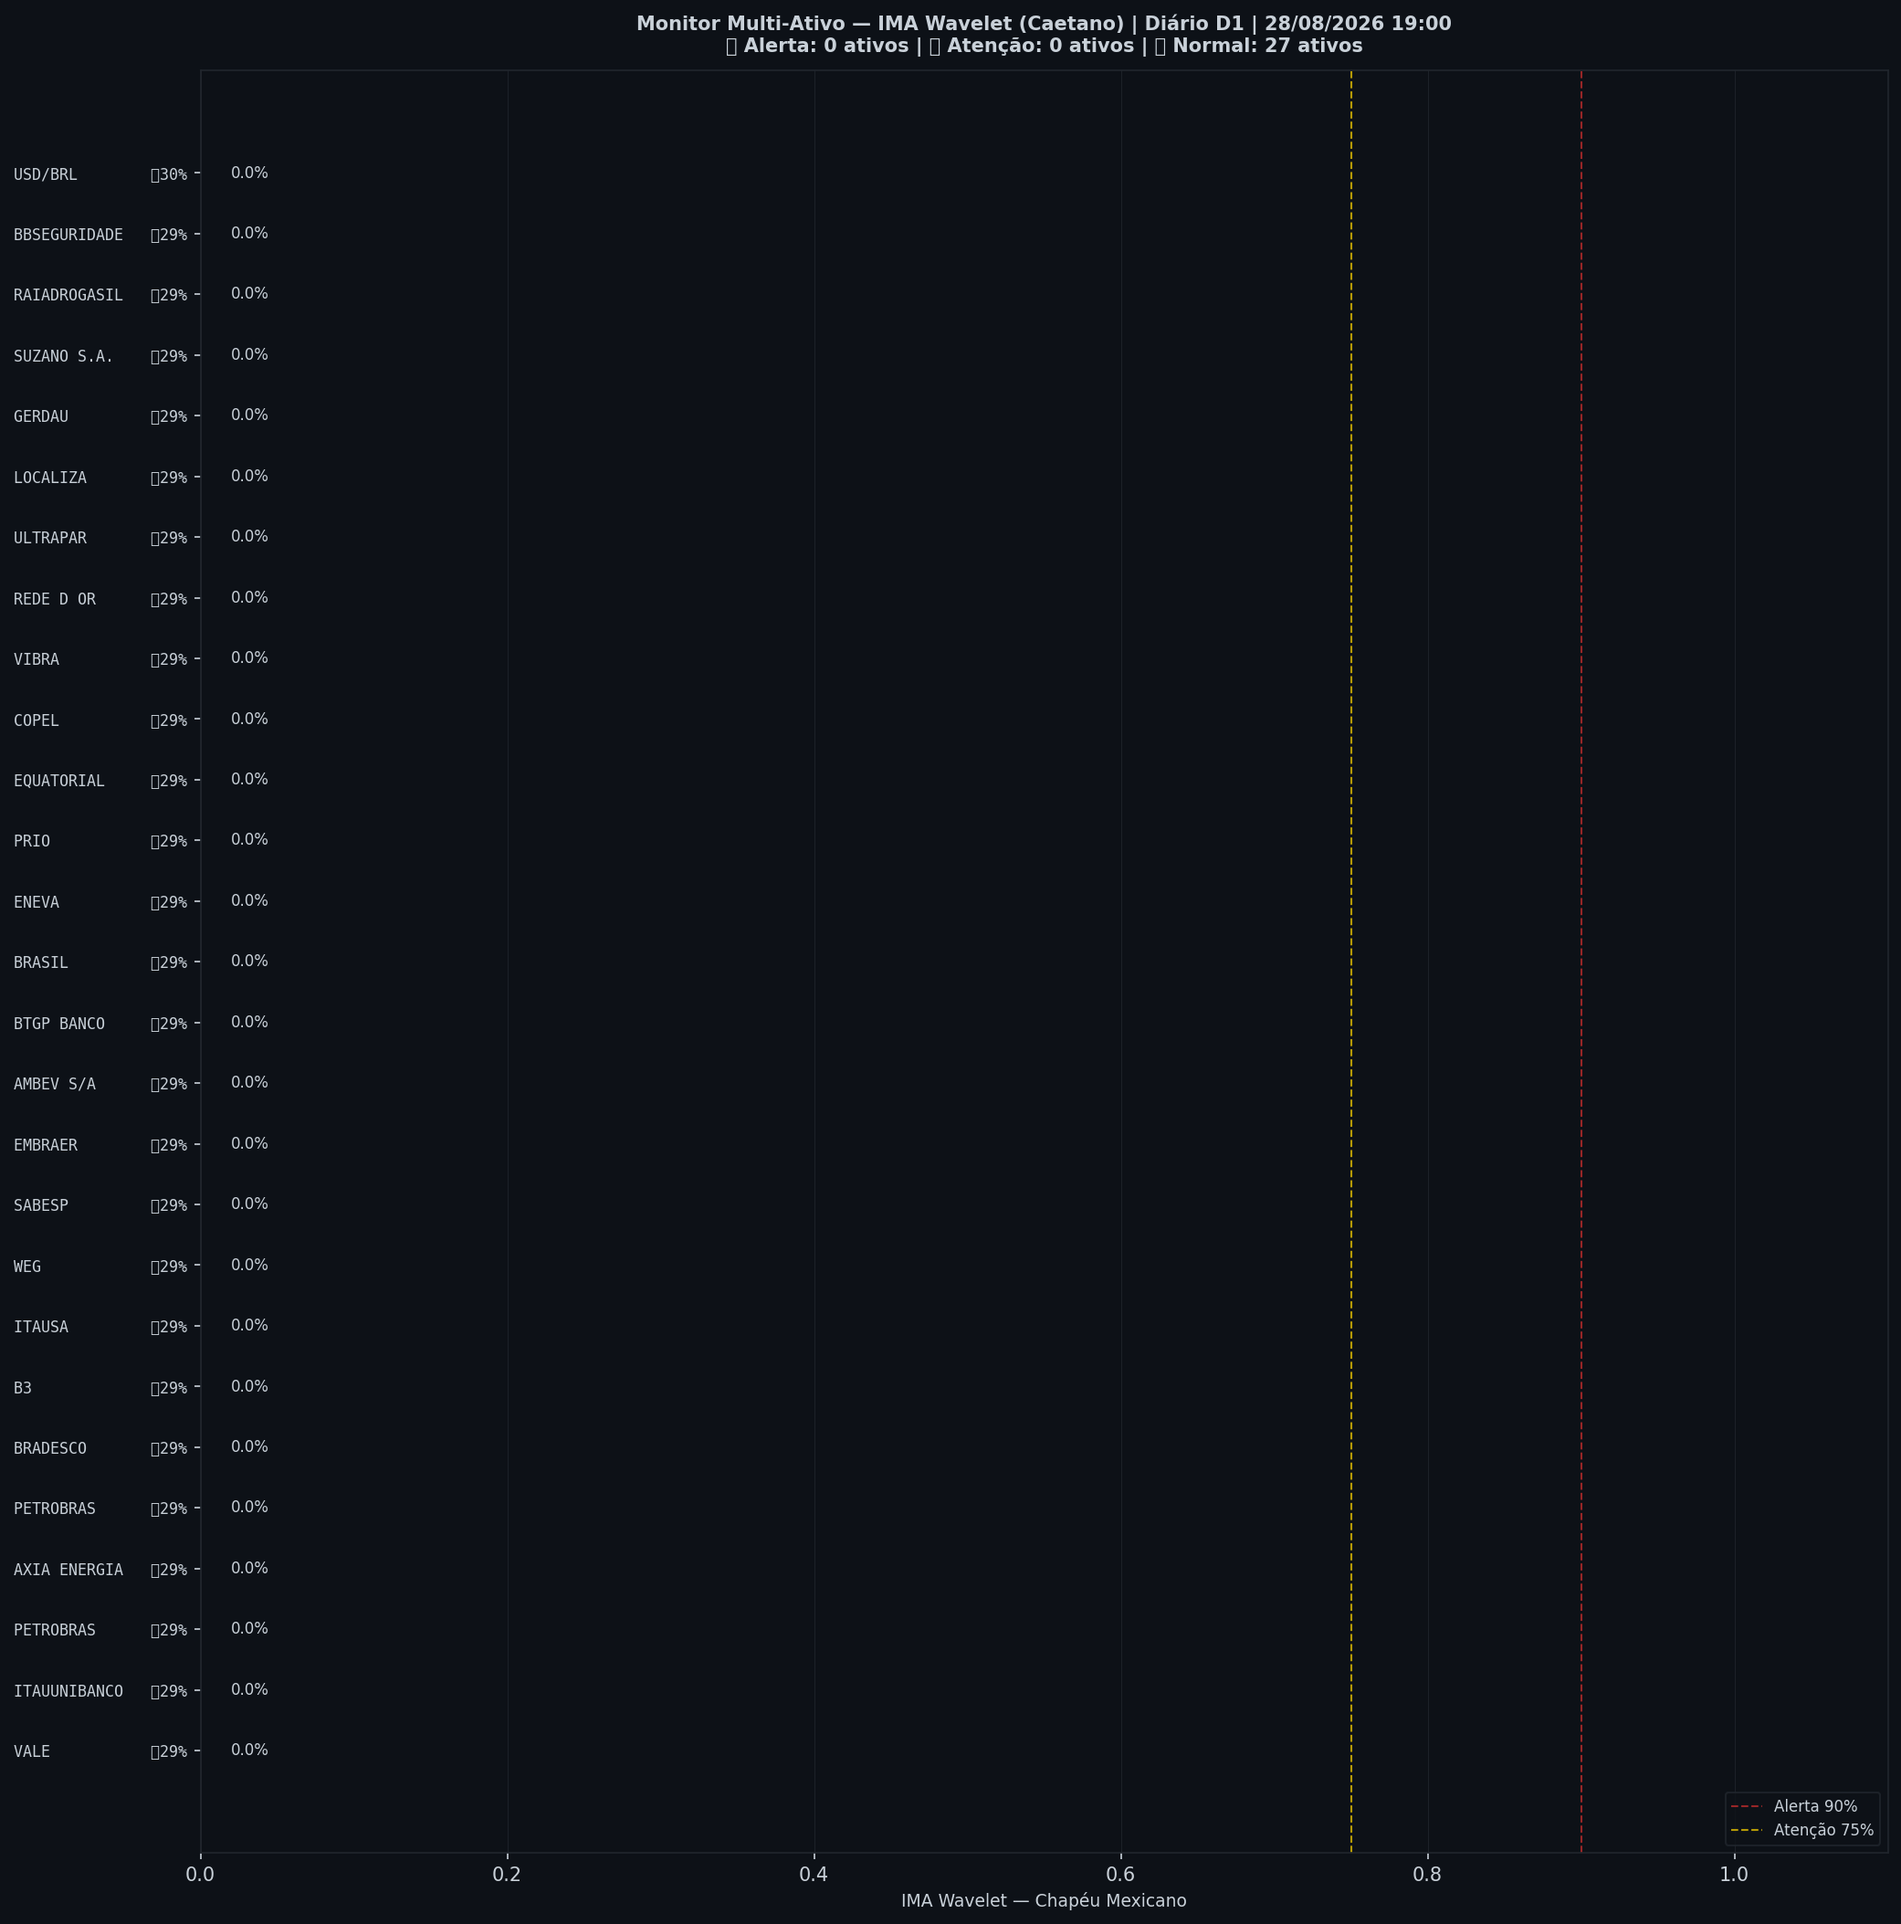
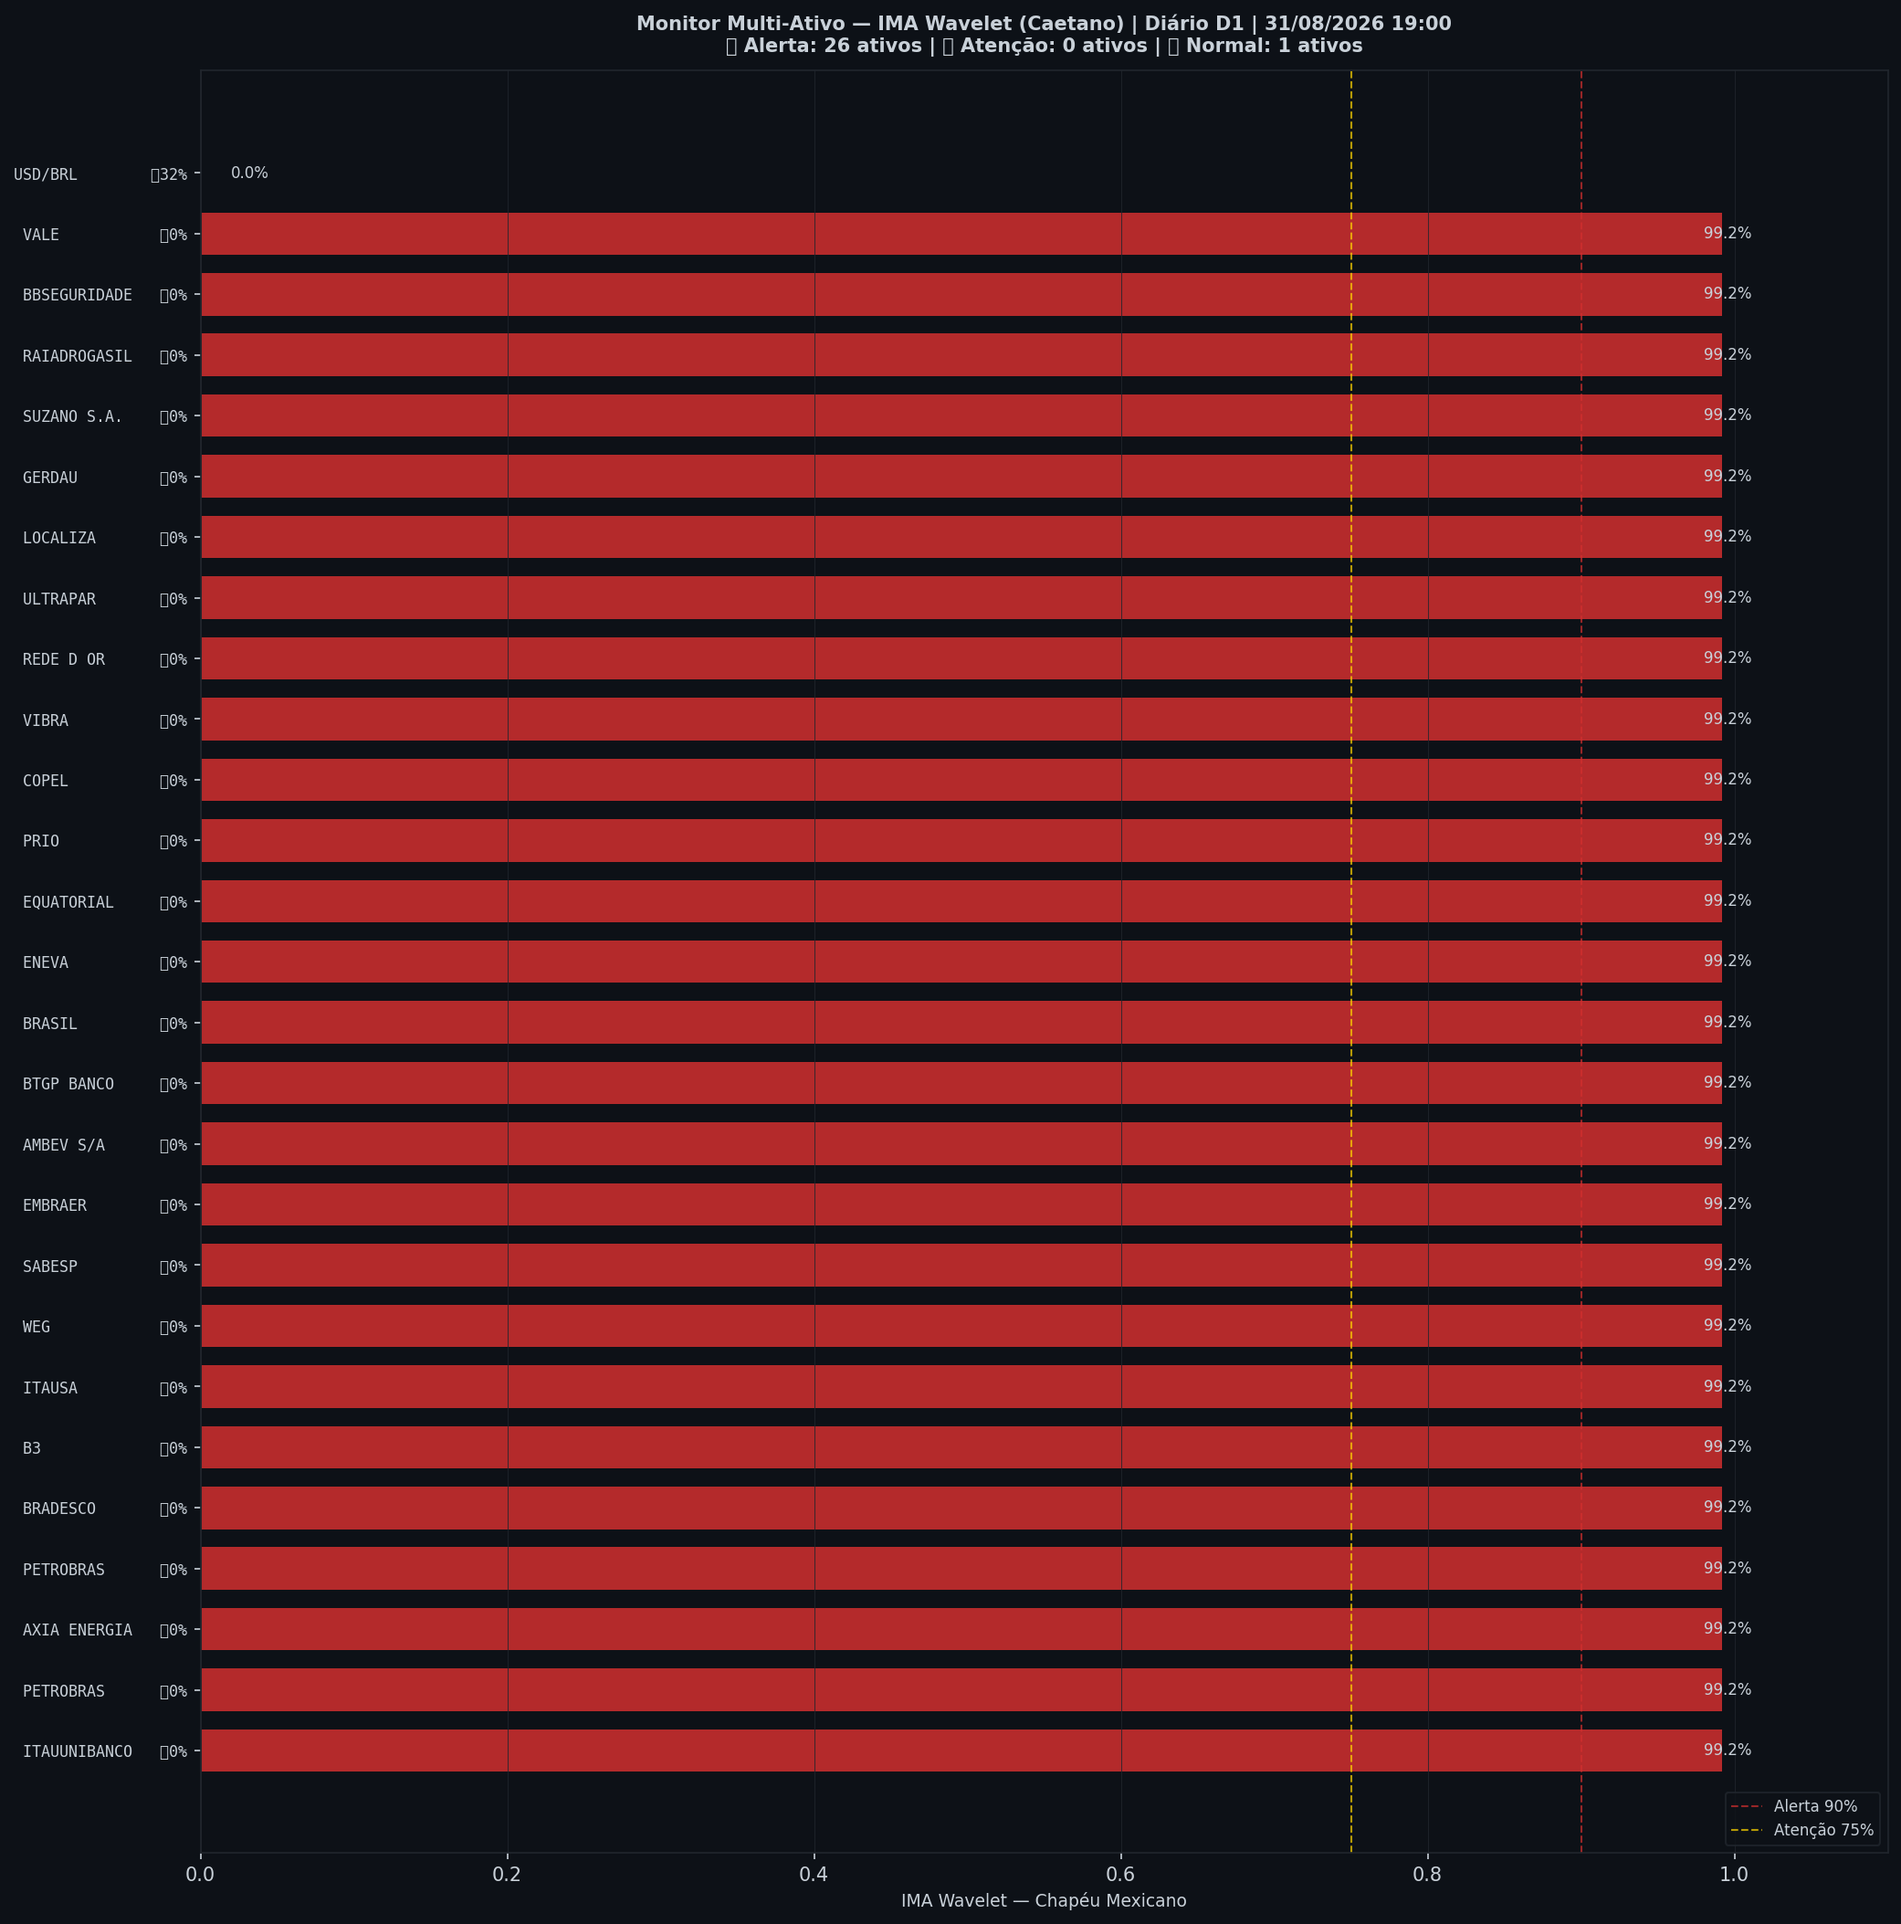
🤖 Auto: Sinal 31/08/2026 19:00

diff --git a/content/diario/2026-08-30.md b/content/diario/2026-08-30.md
@@ -1,0 +1,105 @@
+---
+title: "🟢 Diário 30/08/2026 — VERDE"
+date: 2026-08-31
+tags: [diario]
+---
+
+> [!success] 🟢 **VERDE** — Risco 8% · ▲ +2 p.p. vs leitura anterior
+> `██░░░░░░░░░░░░░░░░░░`
+> Mercado sem sinais relevantes de estresse.
+
+
+| Indicador | Valor |
+|---|---|
+| 🔴 ζ Crash — severidade da queda em curso | **12%** |
+| 🔵 ζ Entrada — estrutura de fundo | 0% |
+| 🫧 LPPL DS-Confidence | 0% |
+| 📊 Ibovespa | 177.419 pts |
+
+![Gráfico do sinal](../graficos/sinal_diario.png)
+
+## Últimos 30 pregões
+
+| Data | Zona | Risco | IMA Crash | Entrada | LPPL |
+|---|---|---|---|---|---|
+| 2026-08-30 21:00 | 🟢 VERDE | **8%** | 12% | 0% | 0% |
+| 2026-08-27 21:00 | 🟢 VERDE | **6%** | 9% | 0% | 0% |
+| 2026-08-26 21:00 | 🟢 VERDE | **4%** | 6% | 1% | 0% |
+| 2026-08-25 21:00 | 🟢 VERDE | **2%** | 4% | 6% | 0% |
+| 2026-08-24 21:00 | 🟢 VERDE | **0%** | 1% | 14% | 0% |
+| 2026-08-23 21:00 | 🟢 VERDE | **0%** | 0% | 21% | 0% |
+| 2026-08-20 21:00 | 🟢 VERDE | **0%** | 0% | 25% | 0% |
+| 2026-08-19 21:00 | 🟢 VERDE | **0%** | 0% | 27% | 0% |
+| 2026-08-18 21:00 | 🟢 VERDE | **0%** | 0% | 27% | 0% |
+| 2026-08-17 21:00 | 🟢 VERDE | **0%** | 0% | 26% | 0% |
+| 2026-08-16 21:00 | 🟢 VERDE | **0%** | 0% | 25% | 0% |
+| 2026-08-13 21:00 | 🟢 VERDE | **0%** | 0% | 23% | 0% |
+| 2026-08-12 21:00 | 🟢 VERDE | **0%** | 0% | 20% | 0% |
+| 2026-08-11 21:00 | 🟢 VERDE | **0%** | 0% | 65% | 0% |
+| 2026-08-10 21:00 | 🟢 VERDE | **0%** | 1% | 62% | 0% |
+| 2026-08-09 21:00 | 🟢 VERDE | **1%** | 2% | 7% | 0% |
+| 2026-08-06 21:00 | 🟢 VERDE | **0%** | 1% | 48% | 0% |
+| 2026-08-05 21:00 | 🟢 VERDE | **0%** | 1% | 50% | 0% |
+| 2026-08-04 21:00 | 🟢 VERDE | **0%** | 0% | 55% | 0% |
+| 2026-08-03 21:00 | 🟢 VERDE | **0%** | 0% | 59% | 0% |
+| 2026-08-02 21:00 | 🟢 VERDE | **0%** | 0% | 62% | 0% |
+| 2026-07-30 21:00 | 🟢 VERDE | **0%** | 0% | 65% | 0% |
+| 2026-07-29 21:00 | 🟢 VERDE | **0%** | 0% | 68% | 0% |
+| 2026-07-28 21:00 | 🟢 VERDE | **0%** | 0% | 69% | 0% |
+| 2026-07-27 21:00 | 🟢 VERDE | **0%** | 1% | 68% | 0% |
+| 2026-07-26 21:00 | 🟢 VERDE | **0%** | 1% | 71% | 0% |
+| 2026-07-23 21:00 | 🟢 VERDE | **0%** | 0% | 71% | 0% |
+| 2026-07-22 21:00 | 🟢 VERDE | **0%** | 0% | 73% | 0% |
+| 2026-07-21 21:00 | 🟢 VERDE | **0%** | 0% | 77% | 0% |
+| 2026-07-20 21:00 | 🟢 VERDE | **0%** | 0% | 80% | 0% |
+
+## Monitor Multi-Ativo
+
+**96% dos ativos em tensão** (26🔴 0🟡) — quanto mais ativos disparam juntos, mais confiável o sinal.
+
+| Zona | Ativo | Setor | IMA Crash | IMA Entrada |
+|---|---|---|---|---|
+| 🔴 | **VALE** | Mineração | 99.2% | 0.0% |
+| 🔴 | **ITAUUNIBANCO** | Financeiro | 99.2% | 0.0% |
+| 🔴 | **PETROBRAS** | Petróleo | 99.2% | 0.0% |
+| 🔴 | **AXIA ENERGIA** | Energia | 99.2% | 0.0% |
+| 🔴 | **PETROBRAS** | Petróleo | 99.2% | 0.0% |
+| 🔴 | **BRADESCO** | Financeiro | 99.2% | 0.0% |
+| 🔴 | **B3** | Financeiro | 99.2% | 0.0% |
+| 🔴 | **ITAUSA** | Financeiro | 99.2% | 0.0% |
+| 🔴 | **WEG** | Industrial | 99.2% | 0.0% |
+| 🔴 | **SABESP** | Saneamento | 99.2% | 0.0% |
+| 🔴 | **EMBRAER** | Outros | 99.2% | 0.0% |
+| 🔴 | **AMBEV S/A** | Consumo | 99.2% | 0.0% |
+| 🔴 | **BTGP BANCO** | Financeiro | 99.2% | 0.0% |
+| 🔴 | **BRASIL** | Financeiro | 99.2% | 0.0% |
+| 🔴 | **ENEVA** | Energia | 99.2% | 0.0% |
+| 🔴 | **EQUATORIAL** | Energia | 99.2% | 0.0% |
+| 🔴 | **PRIO** | Petróleo | 99.2% | 0.0% |
+| 🔴 | **COPEL** | Energia | 99.2% | 0.0% |
+| 🔴 | **VIBRA** | Energia | 99.2% | 0.0% |
+| 🔴 | **REDE D OR** | Saúde | 99.2% | 0.0% |
+| 🔴 | **ULTRAPAR** | Outros | 99.2% | 0.0% |
+| 🔴 | **LOCALIZA** | Aluguel | 99.2% | 0.0% |
+| 🔴 | **GERDAU** | Siderurgia | 99.2% | 0.0% |
+| 🔴 | **SUZANO S.A.** | Papel/Celulose | 99.2% | 0.0% |
+| 🔴 | **RAIADROGASIL** | Outros | 99.2% | 0.0% |
+| 🔴 | **BBSEGURIDADE** | Financeiro | 99.2% | 0.0% |
+| 🟢 | **USD/BRL** | Câmbio | 0.0% | 32.0% |
+
+![Monitor multi-ativo](../graficos/multi_diario.png)
+
+*Página atualizada em 31/08/2026 19:00 BRT (leitura da barra de 2026-08-30 BRT).*
+
+> [!info]- Como interpretar (clique para expandir)
+> - **ζ Crash**: fração dos coeficientes wavelet acima do corte (Caetano & Yoneyama 2009). Escala absoluta: ζ=0,90 = 90% dos coeficientes anômalos — historicamente, quedas com ζ≥0,90 foram mais fundas e mais longas. **Mede a severidade do movimento em curso, não prevê o início da queda.**
+> - **ζ Entrada**: coeficientes negativos além do corte — estrutura de fundo, possível região de compra.
+> - **LPPL DS-Confidence**: fração de janelas (60–504 pregões) em que o modelo de bolha de Sornette produz um ajuste válido. 30% já é relevante; acima de 50% é forte evidência de estrutura de bolha.
+> - **Zonas com histerese**: o sinal só muda de zona ao cruzar o limiar de entrada, e só volta ao cruzar o de saída — evita flip-flop diário.
+
+
+---
+*Sinal de Crise B3 v4 · IMA Wavelet ([Caetano & Yoneyama, Physica-A 2007](https://doi.org/10.1016/j.physa.2007.03.054)) + LPPL DS-Confidence (Sornette, ETH-Zurich) · [Metodologia](metodologia) · [Histórico](historico)*
+
+> [!quote]- Aviso
+> Estudo acadêmico. Não constitui recomendação de investimento.

diff --git a/content/index.md b/content/index.md
@@ -8,21 +8,21 @@ tags: [home]
 
 Monitoramento diário e intraday do Ibovespa — **IMA Wavelet** (Prof. Marco Antonio Leonel Caetano, ITA/INSPER) + **LPPL DS-Confidence** (Prof. Didier Sornette, ETH-Zurich).
 
-*Última atualização: 31/08/2026 17:30 BRT · ^BVSP · Intraday 15min · v4*
+*Última atualização: 31/08/2026 19:00 BRT · ^BVSP · Diário D1 · v4*
 
-> [!success] 🟢 **VERDE** — Risco 1% · ▲ +1 p.p. vs leitura anterior
-> `░░░░░░░░░░░░░░░░░░░░`
+> [!success] 🟢 **VERDE** — Risco 8% · ▲ +2 p.p. vs leitura anterior
+> `██░░░░░░░░░░░░░░░░░░`
 > Mercado sem sinais relevantes de estresse.
 
 
 | Indicador | Valor |
 |---|---|
-| 🔴 ζ Crash — severidade da queda em curso | **1%** |
-| 🔵 ζ Entrada — estrutura de fundo | 8% |
+| 🔴 ζ Crash — severidade da queda em curso | **12%** |
+| 🔵 ζ Entrada — estrutura de fundo | 0% |
 | 🫧 LPPL DS-Confidence | 0% |
-| 📊 Ibovespa | 177.431 pts |
+| 📊 Ibovespa | 177.419 pts |
 
-**Multi-ativo:** 0% em tensão (0🔴 0🟡 de 27 ativos)
+**Multi-ativo:** 96% em tensão (26🔴 0🟡 de 27 ativos)
 
 
 > [!tip]- Calibração v4 (backtest 15y)
@@ -32,8 +32,13 @@ Monitoramento diário e intraday do Ibovespa — **IMA Wavelet** (Prof. Marco An
 
 | Data | Zona | Risco | IMA | LPPL |
 |---|---|---|---|---|
-| [31 Aug 2026](diario/2026-08-31) | 🟢 VERDE | **1%** | 1% | 0% |
-| [28 Aug 2026](diario/2026-08-28) | 🟢 VERDE | **0%** | 0% | 0% |
+| [30 Aug 2026](diario/2026-08-30) | 🟢 VERDE | **8%** | 12% | 0% |
+| [27 Aug 2026](diario/2026-08-27) | 🟢 VERDE | **6%** | 9% | 0% |
+| [26 Aug 2026](diario/2026-08-26) | 🟢 VERDE | **4%** | 6% | 0% |
+| [25 Aug 2026](diario/2026-08-25) | 🟢 VERDE | **2%** | 4% | 0% |
+| [24 Aug 2026](diario/2026-08-24) | 🟢 VERDE | **0%** | 1% | 0% |
+| [23 Aug 2026](diario/2026-08-23) | 🟢 VERDE | **0%** | 0% | 0% |
+| [20 Aug 2026](diario/2026-08-20) | 🟢 VERDE | **0%** | 0% | 0% |
 
 ## Navegação
 

diff --git a/content/historico.md b/content/historico.md
@@ -7,6 +7,7 @@ tags: [historico]
 
 | Data | Modo | Zona | Risco | IMA | LPPL |
 |---|---|---|---|---|---|
+| 2026-08-30 | diario | 🟢 VERDE | 8% | 12% | 0% |
 | 2026-08-31 16:45 | intraday | 🟢 VERDE | 1% | 1% | 0% |
 | 2026-08-31 16:30 | intraday | 🟢 VERDE | 0% | 0% | 0% |
 | 2026-08-31 16:00 | intraday | 🟢 VERDE | 0% | 0% | 0% |
